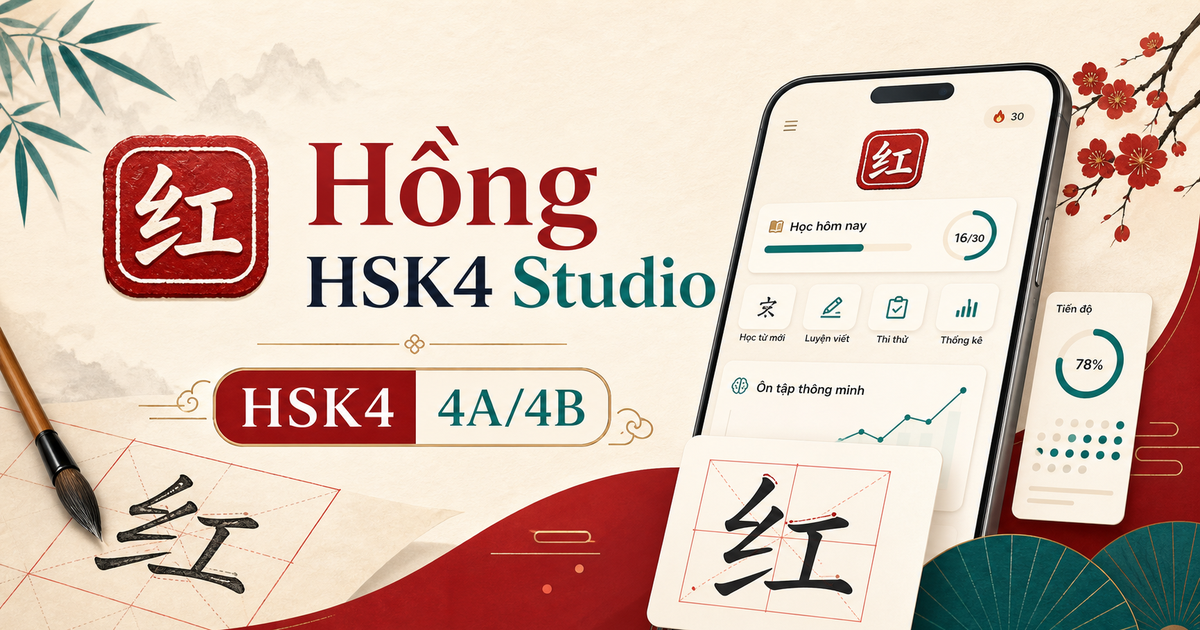
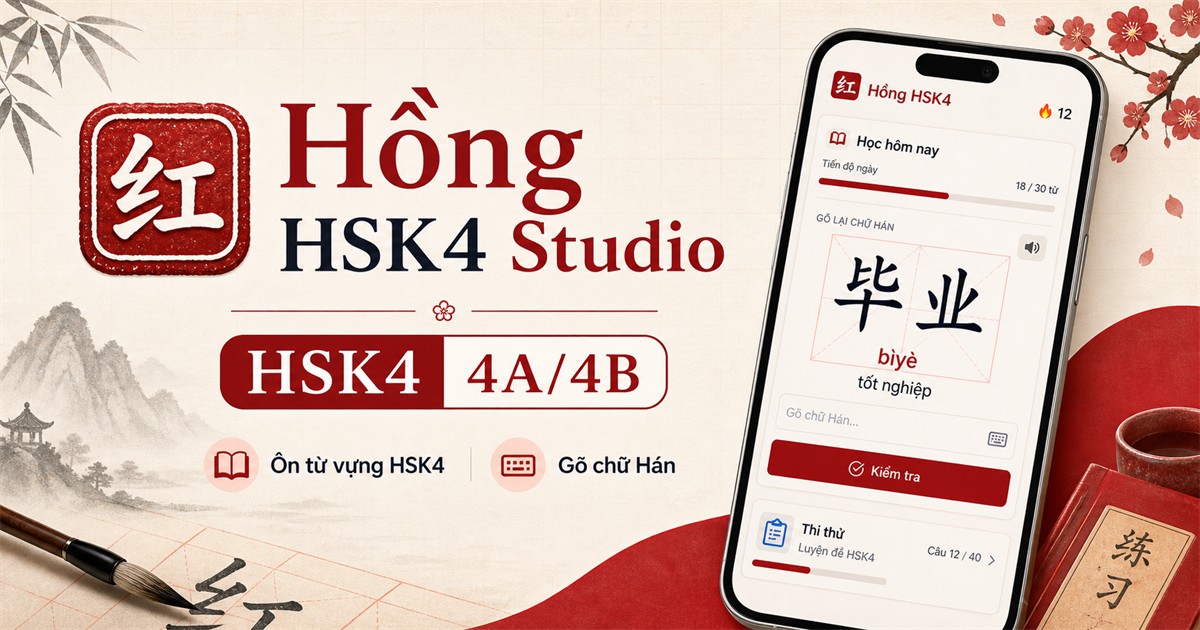
Refresh GitHub visuals and UX resource pack

diff --git a/docs/ux-redesign/2026-05-26/notes/resource-inventory.md b/docs/ux-redesign/2026-05-26/notes/resource-inventory.md
@@ -1,0 +1,25 @@
+# Design Resource Inventory
+
+This folder now contains enough visual material to guide the next production UX/UI pass without inventing layout decisions directly in code.
+
+## Public-Facing Assets
+
+- `docs/assets/readme-hero.png`: GitHub README banner, red-first.
+- `public/og-image.png`: production Open Graph image, resized to 1200x630.
+- `docs/branding/hong-hsk4-studio-og-imagegen-source-v2.png`: high-resolution source for the current OG image.
+
+## UX/UI Boards
+
+- `assets/north-star-ui-board-v2-brand-red.png`: overall app direction across phone and desktop.
+- `assets/mobile-flow-v2-brand-red.png`: main mobile learning flow.
+- `assets/mobile-study-states-v1-brand-red.png`: daily study states from queue to correct/wrong feedback.
+- `assets/mock-exam-mode-v1-brand-red.png`: strict HSK4 mock exam direction.
+- `assets/component-system-v1-brand-red.png`: buttons, inputs, chips, navigation, alerts, cards, and typography references.
+- `assets/data-operations-v1-brand-red.png`: import, data quality, lesson coverage, weak words, and planning views.
+
+## Usage Rules
+
+- Use generated layouts as visual guidance only; do not copy generated text blindly.
+- Preserve the brand hierarchy: red seal and burgundy primary, warm paper background, ink navy text, jade only as a secondary accent.
+- Translate the component board into CSS tokens and reusable presentation helpers before changing individual screens.
+- Validate the final coded UI on mobile first, then tablet/desktop.

diff --git a/docs/ux-redesign/2026-05-26/prompts/asset-pack.md b/docs/ux-redesign/2026-05-26/prompts/asset-pack.md
@@ -1,0 +1,24 @@
+# Image Generation Prompt Pack
+
+All prompts used built-in `image_gen` and were copied into this workspace after generation.
+
+## Public Assets
+
+- GitHub README hero: red-first product banner with red Chinese seal, app phone preview, and warm ivory paper background.
+- Open Graph preview: 1200x630 social card direction for `public/og-image.png`, with red seal identity and minimal jade accents.
+
+## UX/UI Resources
+
+- Mobile study states: queue, recall, checking, wrong recovery, correct scheduling.
+- Mock exam mode: set selection, listening, reading, writing/reorder, submit confirmation.
+- Component system: buttons, navigation, cards, input states, quiz choices, chips, alerts, data cards, typography.
+- Data operations: Excel/CSV import, lesson coverage, weak words, 30-day plan, data quality warnings.
+
+## Hard Constraints
+
+- Hồng/seal red `#9f2734` is primary.
+- Deep burgundy `#7f1d2a` supports strong surfaces.
+- Warm paper `#f8f3ef` and blush `#fff0f1` are the main backgrounds.
+- Ink navy `#1f2230` is the primary text color.
+- Jade `#0f766e` is secondary only.
+- Avoid teal primary buttons, green logos, purple/blue gradients, generic SaaS dashboards, and text copied from generated images.

diff --git a/docs/ux-redesign/2026-05-26/README.md b/docs/ux-redesign/2026-05-26/README.md
@@ -41,6 +41,8 @@ Goal: redesign Hồng HSK4 Studio as a polished, mobile-first HSK4 learning PWA 
 - `notes/mockup-review-v1.md`: evaluation notes from the generated north-star boards.
 - `notes/mockup-review-v2-brand-red.md`: corrected review notes for the red-first brand direction.
 - `notes/brand-palette-correction.md`: palette source of truth so future UI work does not drift back to teal-primary.
+- `notes/resource-inventory.md`: how to use each generated design resource.
+- `prompts/asset-pack.md`: prompt set used to generate the extra UX/UI resources.
 - `references.md`: UX/UI references used for the exploration.
 
 ## Generated North-Star Boards
@@ -56,3 +58,19 @@ V2 boards should use the corrected red-first brand direction.
 ![North star UI board v2 brand red](assets/north-star-ui-board-v2-brand-red.png)
 
 ![Mobile flow v2 brand red](assets/mobile-flow-v2-brand-red.png)
+
+## Design Resource Pack
+
+These boards are implementation references, not source-of-truth text. Real UI copy must still come from the app code.
+
+![GitHub README hero v2](assets/github-readme-hero-v2-brand-red.png)
+
+![OG social preview v2](assets/og-social-preview-v2-brand-red.png)
+
+![Mobile study states](assets/mobile-study-states-v1-brand-red.png)
+
+![Mock exam mode](assets/mock-exam-mode-v1-brand-red.png)
+
+![Component system](assets/component-system-v1-brand-red.png)
+
+![Data operations](assets/data-operations-v1-brand-red.png)

diff --git a/docs/branding/README.md b/docs/branding/README.md
@@ -21,5 +21,8 @@ Biểu tượng dùng chữ **红** vì đây là chữ Hán tương ứng với
 Ảnh concept được tạo bằng built-in `image_gen` theo hướng logo-brand:
 
 - [hong-hsk4-studio-brand-concept.png](./hong-hsk4-studio-brand-concept.png)
+- [hong-hsk4-studio-og-imagegen-source-v2.png](./hong-hsk4-studio-og-imagegen-source-v2.png)
 
 App icon thực tế trong `public/icon.svg` và `public/maskable-icon.svg` được dựng lại bằng SVG để sắc nét, nhẹ và ổn định khi dùng trong PWA.
+
+Open Graph image thực tế nằm ở `public/og-image.png`, kích thước 1200x630 để khớp metadata trong `index.html`. Bản v2 phải giữ đỏ Hồng/seal red làm màu chính; jade chỉ là accent nhỏ cho trạng thái học.

diff --git a/README.md b/README.md
@@ -9,7 +9,7 @@
 </p>
 
 <p align="center">
-  <a href="https://hsk4.holilihu.online/"><img alt="Live app" src="https://img.shields.io/badge/live-hsk4.holilihu.online-2f7d68?style=for-the-badge&logo=cloudflarepages&logoColor=white"></a>
+  <a href="https://hsk4.holilihu.online/"><img alt="Live app" src="https://img.shields.io/badge/live-hsk4.holilihu.online-9f2734?style=for-the-badge&logo=cloudflarepages&logoColor=white"></a>
   <a href="https://github.com/meiiie/hong_hsk/actions/workflows/ci.yml"><img alt="CI" src="https://img.shields.io/github/actions/workflow/status/meiiie/hong_hsk/ci.yml?branch=main&style=for-the-badge&label=CI"></a>
   <img alt="PWA" src="https://img.shields.io/badge/PWA-offline_ready-9f2734?style=for-the-badge">
   <img alt="Stack" src="https://img.shields.io/badge/TypeScript%20%2B%20Vite-2026-1f3154?style=for-the-badge">